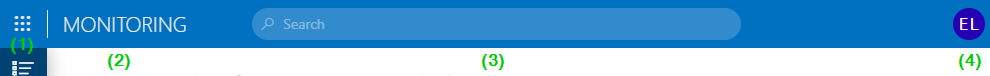
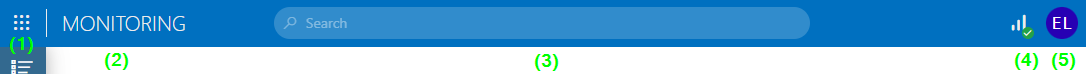
RN 38676 pt. 2

diff --git a/user-guide/Getting_started/The_DataMiner_User_Interface/Monitoring_app/Monitoring_app_header_bar.md b/user-guide/Getting_started/The_DataMiner_User_Interface/Monitoring_app/Monitoring_app_header_bar.md
@@ -9,7 +9,7 @@ uid: Monitoring_app_header_bar
 
 The Monitoring app header bar contains the following items, from left to right:
 
-![Monitoring app header bar](~/user-guide/images/Monitoring_app_Header_Bar.png)
+![Monitoring app header bar](~/user-guide/images/Monitoring_app_Header_Bar.png)<br>*Monitoring app header bar in DataMiner 10.4.4*
 
 - Apps button (1): The button in the top-left corner provides quick access to other DataMiner web apps.
 
@@ -17,7 +17,17 @@ The Monitoring app header bar contains the following items, from left to right:
 
 - Search box (3): The box in the middle of the header bar allows you to search the app. When you activate the box, a list of suggestions is displayed below it, based on the recent items list. This list of suggestions gets updated with search results as soon as you type in the box. Select a suggestion in the list to open the corresponding card.
 
-- User button (4): A button with the initials or picture of the current user is displayed in the top-right corner. Click this button to open a menu that provides access to the following options:
+- WebSocket connection status (4): Available from DataMiner 10.3.0 [CU13]/10.4.0 [CU1]/10.4.4 onwards<!--RN 38676-->. This indicator shows the current status of your WebSocket connection. The available statuses include:
+
+  - ![Successful connection](~/user-guide/images/MA_Successful.png) : A stable connection with instant updates.
+
+  - ![Offline](~/user-guide/images/MA_No_Connection.png) : An offline connection.
+
+  - ![No real-time connection](~/user-guide/images/MA_No_Real-Time_Connection.png) : No real-time connection could be established. Updates will happen more slowly than usual.
+
+  - ![Establishing connection](~/user-guide/images/MA_Establishing.png) : Re-establishing a WebSocket connection. Updates will happen more slowly than usual.
+
+- User button (5): A button with the initials or picture of the current user is displayed in the top-right corner. Click this button to open a menu that provides access to the following options:
 
   - *Settings*: Allows you to configure the default page that is displayed when you open an element or a view card.
 

diff --git a/user-guide/Advanced_Modules/Dashboards_and_Low_Code_Apps/Dashboards_app/Overview_of_the_Dashboards_app_UI.md b/user-guide/Advanced_Modules/Dashboards_and_Low_Code_Apps/Dashboards_app/Overview_of_the_Dashboards_app_UI.md
@@ -14,15 +14,15 @@ The main page of the Dashboards app consists of a header bar, a sidebar, and a d
 
   - Search box: The box in the middle of the header bar allows you to search the app. As soon as you activate the box, a list of suggestions is displayed below it. The list gets updated with new suggestions as you type. Select a suggestion in the list to open the corresponding dashboard or dashboard folder.
 
-  - WebSocket connection status: Available from DataMiner 10.3.0 [CU13]/10.4.0 [CU1]/10.4.4 onwards. This indicator shows the current status of your WebSocket connection. The available statuses include:
+  - WebSocket connection status: Available from DataMiner 10.3.0 [CU13]/10.4.0 [CU1]/10.4.4 onwards<!--RN 38676-->. This indicator shows the current status of your WebSocket connection. The available statuses include:
 
-    - ![Successful connection](~/user-guide/images/WebSocket_Success.png) : Indicates a stable connection with instant updates.
+    - ![Successful connection](~/user-guide/images/WebSocket_Success.png) : A stable connection with instant updates.
 
-    - : Indicates an offline connection.
+    - ![Offline](~/user-guide/images/WebSocket_No_Connection.png) : An offline connection.
 
-    - : Indicates no WebSocket connection, and polling.
+    - ![No real-time connection](~/user-guide/images/WebSocket_No_Real-Time_Connection.png) : No real-time connection could be established. Updates will happen more slowly than usual.
 
-    - : Indicates the process of establishing a WebSocket connection, and polling.
+    - ![Establishing connection](~/user-guide/images/WebSocket_Establishing_Connection.gif) : Re-establishing a WebSocket connection. Updates will happen more slowly than usual.
 
   - User button: A button with the initials or an image of the current user is displayed in the top-right corner. Click this button to open a menu that provides access to the following options:
 

diff --git a/user-guide/Getting_started/The_DataMiner_User_Interface/Monitoring_app/The_Monitoring_app_user_interface.md b/user-guide/Getting_started/The_DataMiner_User_Interface/Monitoring_app/The_Monitoring_app_user_interface.md
@@ -8,7 +8,7 @@ The Monitoring app is a web application featuring a user interface similar to th
 
 The user interface consists of four main components:
 
-![Monitoring app UI](~/user-guide/images/Monitoring_app_UI.png)
+![Monitoring app UI](~/user-guide/images/Monitoring_app_UI.png)<br>*Monitoring app in DataMiner 10.4.4*
 
 - [Header bar](xref:Monitoring_app_header_bar) (1)
 
